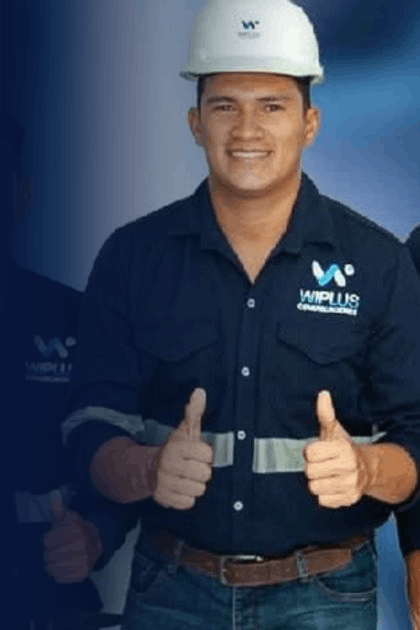
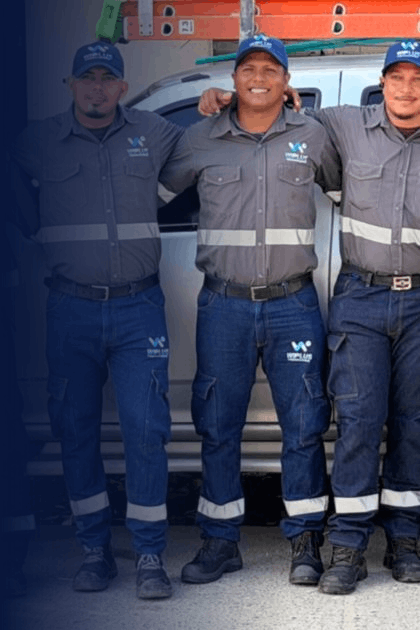
Nosotros: fotos nuevas del equipo WIPLUS
Reemplaza la foto vieja del equipo técnico (recortada de un flyer de 2023) por la
foto nueva de los técnicos frente a la camioneta y agrega la galería «Así es el
equipo WIPLUS» con tres fotos reales (equipo completo, técnicos con la escalera y
técnicos frente a la oficina). Regenera la foto de la tarjeta para compartir y
actualiza PENDIENTES.md (falta la autorización de las personas).

Claude-Session: https://claude.ai/code/session_01R9yoRJ46HjrR63NwQt4Rsk

diff --git a/content/fotos.ts b/content/fotos.ts
@@ -1,8 +1,29 @@
 import type { Foto } from '@/lib/types'
 
 /**
- * Fotos de trabajos. TODO(WIPLUS): las fotos del sitio anterior (20240426_082938, IMG-20240430-WA0063,
- * image3/5/20-fotor) no se pudieron descargar desde el entorno de desarrollo. Copiarlas a public/trabajos/
- * o subirlas al CMS y registrarlas aquí con un texto alternativo descriptivo.
+ * Fotos reales del equipo de WIPLUS (enviadas por WIPLUS en noviembre de 2026), en public/equipo/.
+ * TODO(WIPLUS): confirmar que todas las personas que aparecen autorizan la publicación.
  */
-export const fotos: Foto[] = []
+export const fotos: Foto[] = [
+  {
+    id: 'equipo-completo',
+    src: '/equipo/equipo-completo-wiplus.jpg',
+    alt: 'Todo el equipo de WIPLUS, técnicos y personal de oficina y atención, frente a la camioneta de la empresa con una escalera en el piso',
+    width: 1200,
+    height: 900,
+  },
+  {
+    id: 'tecnicos-escalera',
+    src: '/equipo/tecnicos-escalera-wiplus.jpg',
+    alt: 'Siete técnicos de WIPLUS con uniforme gris y gorra sostienen juntos una escalera naranja frente a la camioneta',
+    width: 1200,
+    height: 900,
+  },
+  {
+    id: 'tecnicos-oficina',
+    src: '/equipo/tecnicos-oficina-wiplus.jpg',
+    alt: 'Técnicos de WIPLUS uniformados y abrazados frente a la oficina de la Calle 13 en Sabanalarga',
+    width: 1200,
+    height: 900,
+  },
+]

diff --git a/app/(site)/nosotros/page.tsx b/app/(site)/nosotros/page.tsx
@@ -92,7 +92,7 @@ export default async function NosotrosPage() {
           <figure className="relative overflow-hidden rounded-3xl shadow-card-hover">
             <Image
               src={equipo}
-              alt="Equipo técnico de WIPLUS Comunicaciones: cinco técnicos con el uniforme azul de la empresa, uno de ellos con casco, haciendo el gesto de aprobación"
+              alt="Equipo técnico de WIPLUS Comunicaciones: siete técnicos con camisa gris con reflectivos, jean y gorra de la empresa, abrazados frente a la camioneta con las escaleras de trabajo"
               sizes="(min-width: 1024px) 55vw, 100vw"
               placeholder="blur"
               className="h-auto w-full"
@@ -135,7 +135,7 @@ export default async function NosotrosPage() {
       </Section>
 
       {fotos.length > 0 && (
-        <Section id="trabajos" title="Nuestro trabajo en campo" tone="surface">
+        <Section id="trabajos" title="Así es el equipo WIPLUS" tone="surface">
           <ul className="grid gap-4 sm:grid-cols-2 lg:grid-cols-3">
             {fotos.map((f) => (
               <li key={f.id} className="overflow-hidden rounded-2xl">

diff --git a/PENDIENTES.md b/PENDIENTES.md
@@ -92,12 +92,12 @@ puede reemplazar desde el CMS (`/studio`) sin programador.
 - [x] Razón social WIPLUS COMUNICACIONES DE COLOMBIA SAS, NIT 901194958-0.
 - [ ] Registro TIC (MinTIC) para los textos legales.
 - [ ] Historia de la empresa (año de fundación, fundadores).
-- [ ] Foto original en alta resolución del equipo técnico (la de /nosotros se recortó del flyer
-      «Conoce nuestro equipo técnico 2023» de Facebook) y autorización de las personas que aparecen.
+- [x] Fotos nuevas del equipo (noviembre de 2026) en /nosotros y en la galería «Así es el equipo WIPLUS».
+- [ ] Autorización de las personas que aparecen en las fotos del equipo.
 - [ ] Confirmar si «La Voz del Pueblo» (aparece en el flyer junto a la dirección) es el barrio de la
       oficina, para agregarlo a la dirección del sitio y de Google Maps.
 - [ ] **Logo en alta resolución / vectorial (SVG o AI)**. El sitio usa el PNG suministrado por chat.
-- [ ] Fotos de trabajos (las del sitio actual no se pudieron descargar desde el entorno de desarrollo).
+- [ ] Fotos de trabajos en campo (instalaciones de fibra); por ahora la galería muestra al equipo.
 
 ## Legal
 
